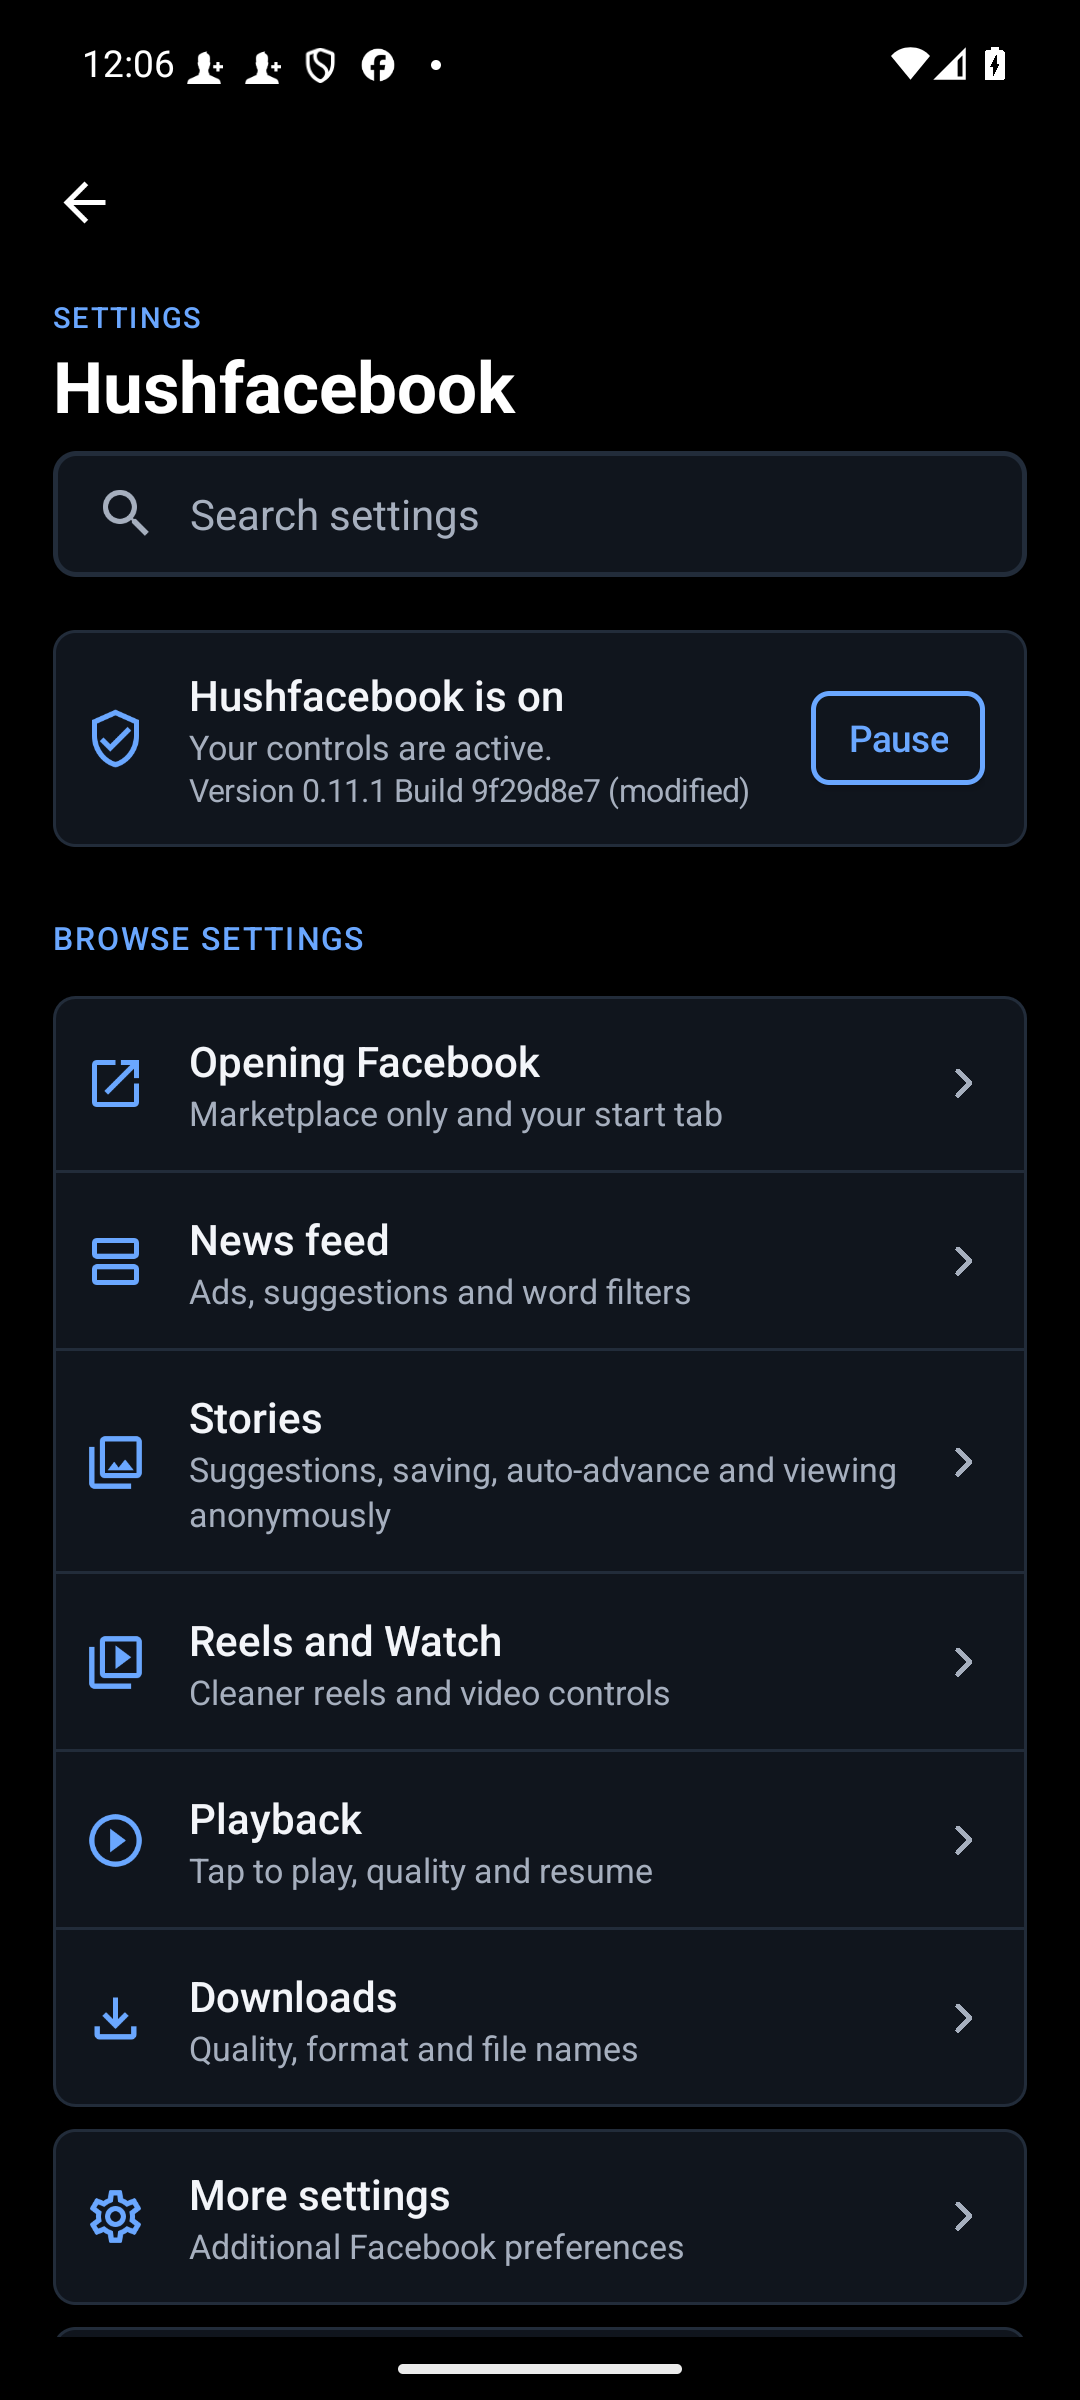
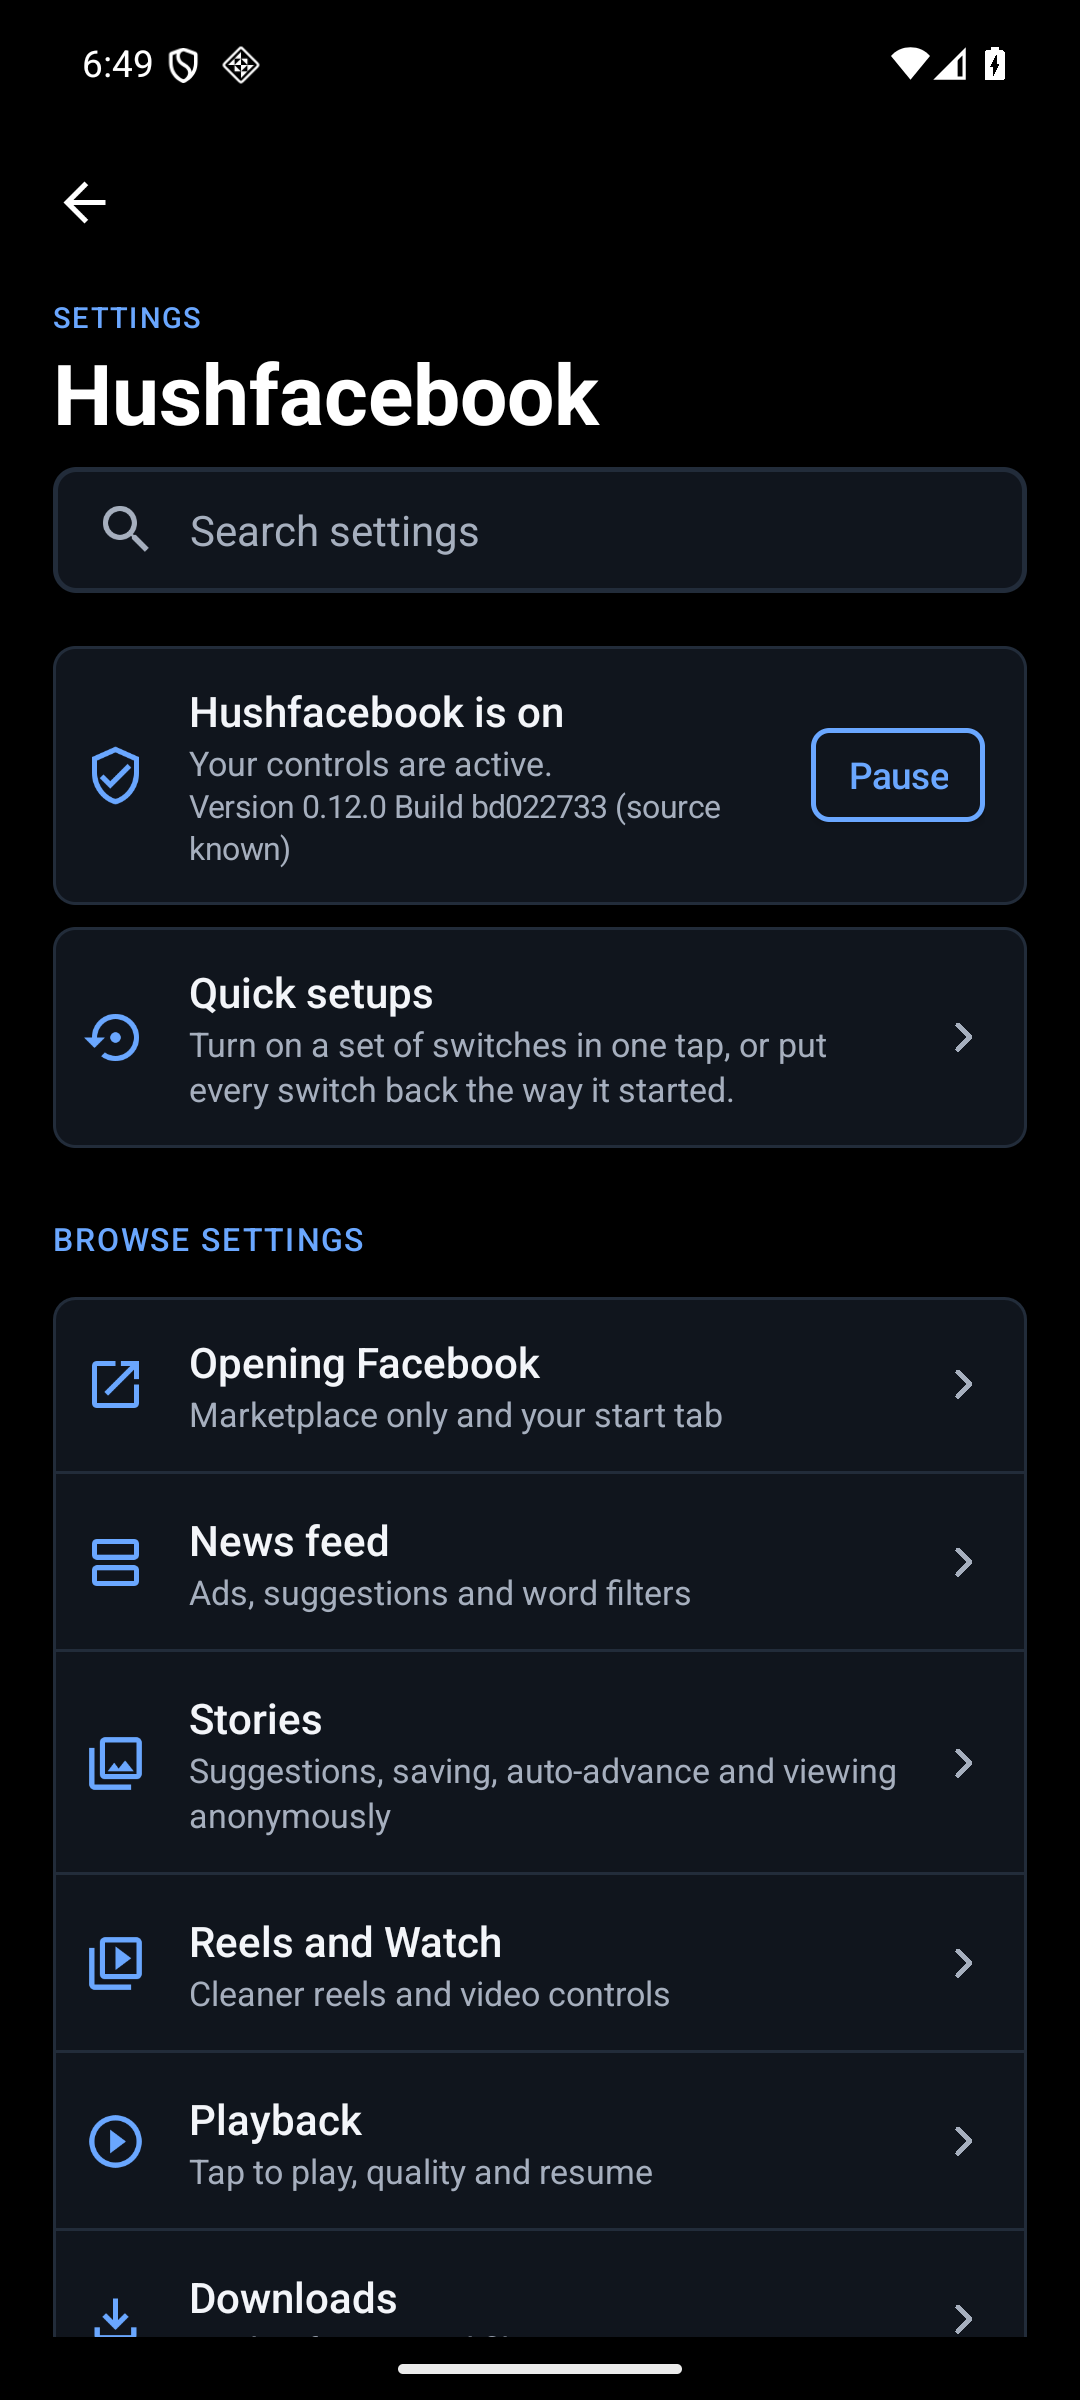
docs(readme): refresh the settings screenshots for 0.12.0
The overview still showed 0.11.1 and had no Quick setups row. Both pages are captured again from the published bundle's default selection.

diff --git a/CHANGELOG.md b/CHANGELOG.md
@@ -2,6 +2,12 @@
 
 Changes in each Hushfacebook version, newest first.
 
+## Unreleased
+
+### Changed
+
+* **Facebook:** The README's two settings screenshots come from 0.12.0 now, so the overview shows the Quick setups row.
+
 ## 0.12.0 (2026-10-13)
 
 * **Facebook:** This release gathers everything since v0.11.0 and still brings 88 patches for Facebook 582.0.0.50.54. New switches leave calls and chat notifications to Messenger, keep the top bar and the tab bar on screen while you scroll, let a tap on a reel's progress bar seek, and take Muse out of the share sheet. The settings home page gets Quick setups and a Report a problem row, and a setting that needs a restart now shows a row that restarts Facebook and brings you back to the same page. You can name the patched app when you patch, and `Pick an app icon` opens Facebook's App icon page on accounts where Facebook doesn't list it. The kept progress bar shows on every reel and stays where you drag it, and the Reported issues list below maps each report this release touches.
